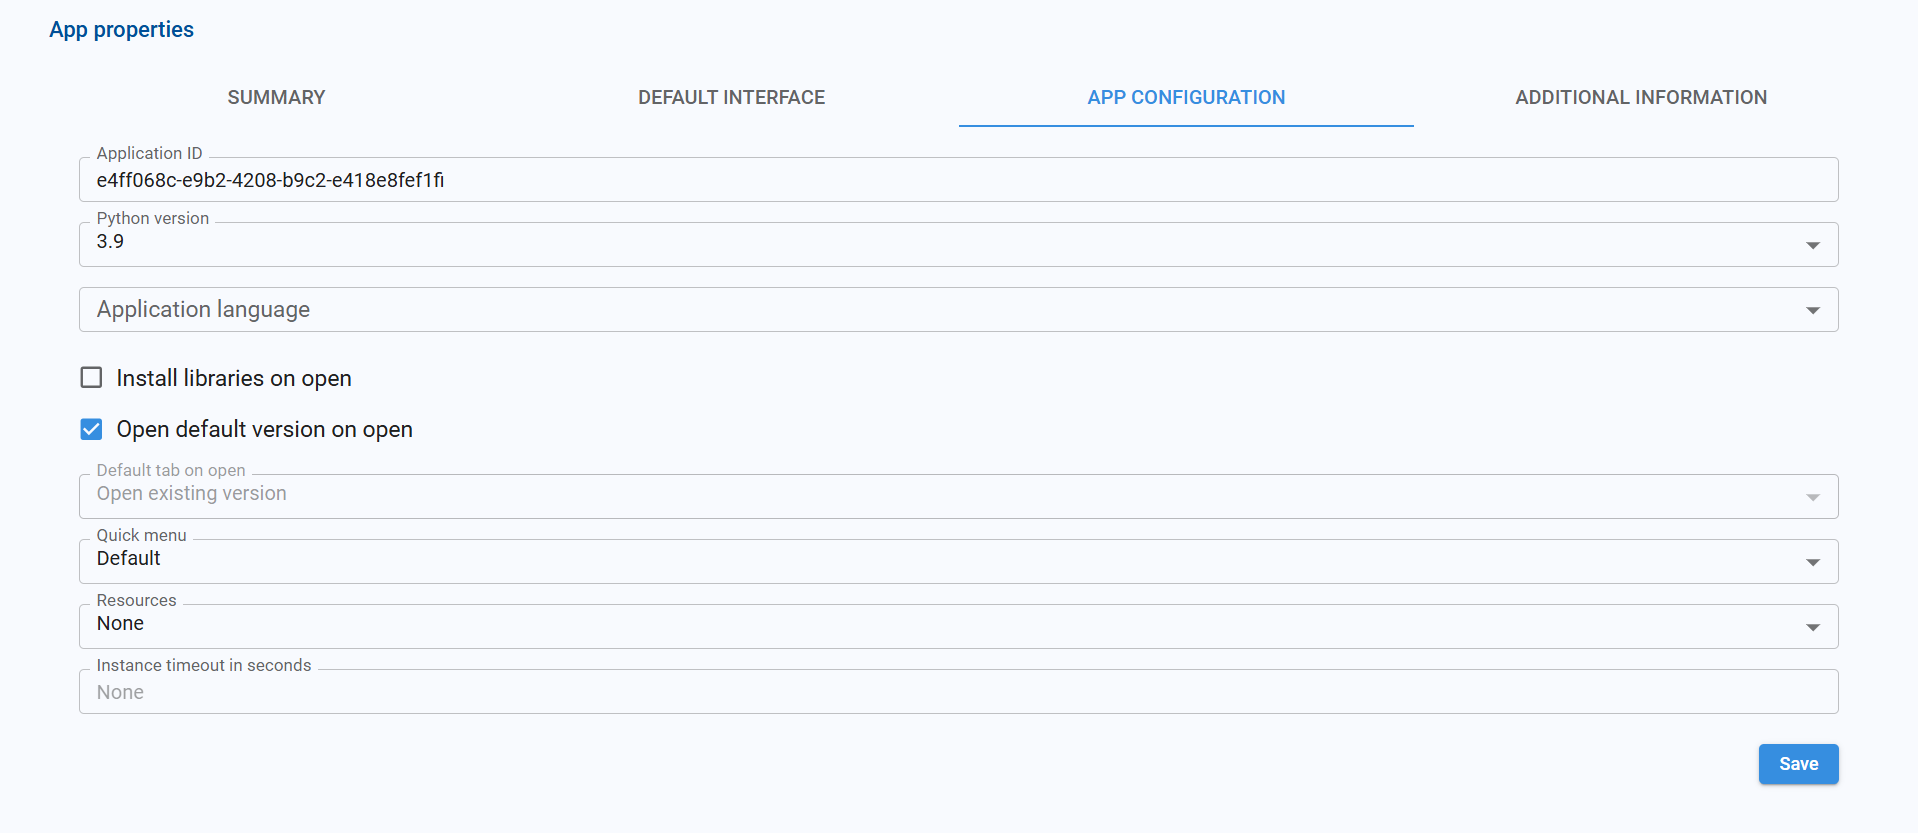
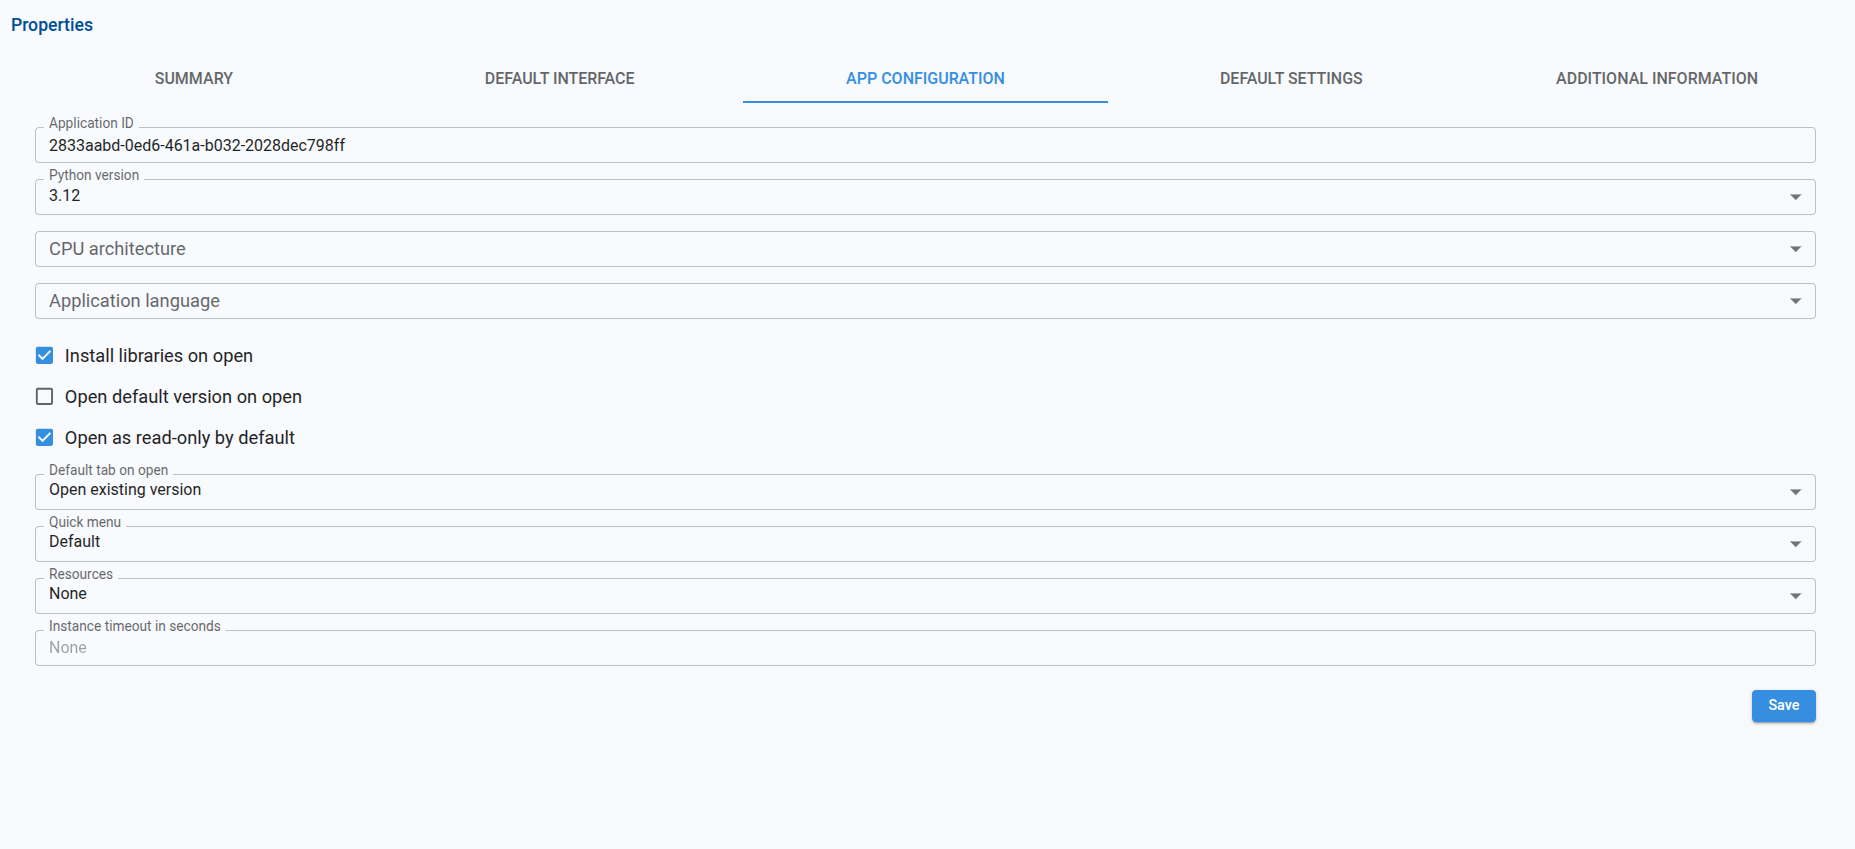
Acceso por defecto sin edición a una aplicación

diff --git a/docs/user-guide/applications.md b/docs/user-guide/applications.md
@@ -94,7 +94,8 @@ For folders, we can perform the following actions:
 
 For applications, we can perform the following actions:
 
-- **Open as read-only:** open the application in read-only mode so no changes can be made.
+- **Open as read-only:** open the application in [read-only mode](#read-only-and-write-mode), so changes cannot be saved.
+- **Open in write mode:** shown instead of *Open as read-only* when the application is configured to [open as read-only by default](#opening-an-application-read-only-by-default). It opens the application in write mode.
 - **Open application in new instance:** open the application in a separate instance, useful for working in parallel on different apps or versions.
 - **Select version and open app:** choose a specific version of the application and open it, for example to review or reuse an earlier version.
 - **Select resources and open app:** open the application with a specific set of resources, different from those assigned by our Department.
@@ -119,7 +120,7 @@ To generate a direct access link, we follow these steps:
 1. In the **Application Manager**, we open the contextual menu of the application.
 2. We select the **Direct access link** option.
 3. In the dialog, we choose whether we want to use the default version or a specific version.
-4. If needed, we enable **Open as read-only** so the application opens without allowing changes.
+4. If needed, we enable **Open as read-only** so the application opens without allowing changes. If the application is configured to [open as read-only by default](#opening-an-application-read-only-by-default), the link always opens it in read-only mode, even with this option disabled.
 5. We click **Generate link**.
 6. We copy the generated URL and share it with the corresponding users.
 
@@ -129,6 +130,55 @@ To generate a direct access link, we follow these steps:
 
 :::info
 The generated link includes the selected application and can also include a specific version and the read-only mode configuration.
+:::
+
+## Read-only and write mode
+
+Only one session at a time can save changes to a given version of an application. The first user who opens that version, and has permission to edit it, gets **write mode**. Anyone who opens the same version afterwards gets **read-only mode**, and Pyplan shows a notification with the name of the user who is working on it.
+
+An application also opens in read-only mode when:
+
+- We choose **Open as read-only** in the application menu.
+- We do not have permission to edit the application.
+- The status of the version is not *Active*.
+- The application belongs to a Team where our Department only has read-only access.
+
+In read-only mode we can still navigate the application, run nodes and modify it within our session, but the **Save** button is disabled. Hovering over it shows why the application is read-only.
+
+### Opening an application read-only by default
+
+When an application is used by people who only occasionally need to save, simply opening it would leave them in write mode and block other users, such as the developers maintaining the app, until they close it. For these applications we can enable **Open as read-only by default** in [App properties > App configuration](./app-management/app-properties.md#app-configuration).
+
+With this option enabled:
+
+- Opening the application by clicking its card opens it in read-only mode. The same applies when it opens on login, in a new instance, or after selecting a version.
+- The application menu shows **Open in write mode** instead of **Open as read-only**. It is only shown to users who can edit the application.
+- In **Select resources and open app**, the **Open as read-only** option starts enabled. Disabling it opens the application in write mode.
+- [Direct access links](#direct-access-link) and the [`pp.open_app`](./code/pyplan-functions.md#open_app) function always open it in read-only mode.
+- Reloading the application keeps the mode it was opened in.
+
+![Open in write mode option in the application menu](./img/app-management/application-menu-open-in-write-mode.png)
+
+:::tip
+Write mode still follows the rule of one session per version: if another user is already working on the version in write mode, choosing **Open in write mode** opens it in read-only mode and shows who is using it.
+:::
+
+### Claiming write mode while the application is open
+
+If we opened an application in read-only mode and then need to save our changes, we do not have to close it and open it again. From the top bar we click **Save as** and choose **Claim write mode**. The option is shown while the application is read-only and we have permission to edit it.
+
+![Claim write mode option in the Save as menu](./img/app-management/save-as-menu-claim-write-mode.png)
+
+If the claim succeeds, Pyplan shows *You can now save your changes*, the **Save** button is enabled, and every change we made in the session is kept.
+
+Pyplan refuses the claim, and the application stays in read-only mode, when:
+
+- **Another user is working on the version in write mode.** The message shows who is using it. We can claim write mode again once that user closes the application.
+- **Someone saved the version after we opened it.** Saving our session would overwrite their work, so the message shows who saved it.
+- **We do not have permission to edit the application, or the version is not active.**
+
+:::warning
+When someone saved the version after we opened it, our session no longer matches the saved application. To keep our changes, we use another **Save as** option, such as *Save as new version*. To work on the latest saved version, we reopen the application.
 :::
 
 ### Move folder app example

diff --git a/docs/user-guide/app-management/app-properties.md b/docs/user-guide/app-management/app-properties.md
@@ -72,6 +72,7 @@ The **App configuration** tab lets you change technical and behavioral settings 
 | **Application language** | Default language for node titles, node documentation, interface titles, component titles, and menu items. |
 | **Install libraries on open** | When enabled, Pyplan installs the libraries listed in `requirements.txt` every time the application is opened. |
 | **Open default version on open** | When enabled, the default version opens automatically. When disabled, a version selection dialog appears. |
+| **Open as read-only by default** | When enabled, the application opens in read-only mode unless the user explicitly chooses **Open in write mode** from the application menu. Useful for apps whose users only occasionally need to save, so that opening the app does not block other users. See [Opening an application read-only by default](../applications.md#opening-an-application-read-only-by-default). |
 | **Quick menu** | Defines which interface provides the Quick menu used when navigating between interfaces. Options: Default (from the app's default interface) or From interface (choose a specific interface). |
 | **Resources** | Optional resource set (CPU and memory) the application's instance runs with. It overrides the resources assigned by the user's department. If changed, the application must be reloaded. |
 | **Instance timeout in seconds** | Maximum idle time before an application instance is automatically closed. |

diff --git a/docs/user-guide/code/coding-window.md b/docs/user-guide/code/coding-window.md
@@ -66,9 +66,10 @@ The ellipsis menu to the right of the app title opens the App menu, where we can
 
 ### Top‑Left Code Toolbar
 
-**Save** — Saves the current application.
+**Save** — Saves the current application. It is disabled when the application is in [read-only mode](../applications.md#read-only-and-write-mode); hovering over it shows the reason.
 
 **Save as** — Opens a menu with options such as:
+- Claim write mode: shown while the application is read-only and we have permission to edit it. It switches the session to write mode without reopening the application, keeping our changes. See [Claiming write mode while the application is open](../applications.md#claiming-write-mode-while-the-application-is-open).
 - Save as new version: creates a new version of the current application.
 - Save application in my workspace: saves a copy of the app in My workspace.
 - Save application in my team: saves a copy of the app in a Team workspace.

diff --git a/docs/user-guide/code/pyplan-functions.md b/docs/user-guide/code/pyplan-functions.md
@@ -2649,7 +2649,7 @@ Sends message to command UI to open an application.
 ### Args
 - **folder**: (str) Path to the folder containing the application.
 - **version**: (Optional[str]) Name of the version to open.
-- **read_only**: (Optional[bool]) If True, the application will be opened in read-only mode.
+- **read_only**: (Optional[bool]) If True, the application will be opened in read-only mode. If False, the application opens in write mode, unless it is configured to [open as read-only by default](../applications.md#opening-an-application-read-only-by-default), in which case it opens in read-only mode.
 - **resources**: (Optional[Dict]) Dictionary with the desired resources to be used when opening the application.
 - **open_on_new_instance**: (Optional[bool]) If True, the application will be opened in a new instance.
 - **show_versions_on_open**: (Optional[bool]) If True, the application will show the list of available versions on open.
